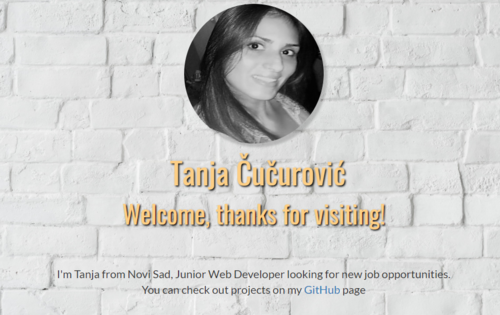
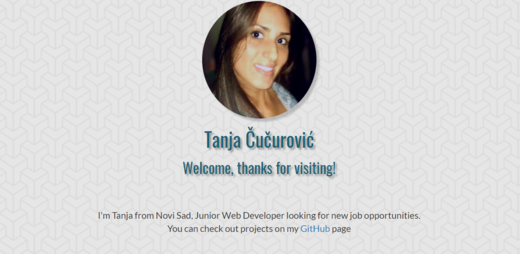
design change

diff --git a/style.css b/style.css
@@ -2,11 +2,19 @@ h1, h2, h3, h4, h5, h6 {
     font-family: 'Oswald', sans-serif;
     font-weight: 500;
     text-shadow: 4px 4px 5px rgba(150, 150, 150, 1);
+    color: #195F74;
+}
+/* Name */
+
+h1{
+    font-size: 42px; 
+    text-align: center; 
 }
 
-h2, h3 {
-    color: black;
-    text-shadow: 4px 4px 5px rgba(150, 150, 150, 1);
+/* Welcome message */
+h2{
+    text-align: center;
+    font-size: 32px;
 }
 
 body, p, ul, ol, table {
@@ -37,7 +45,7 @@ body, p, ul, ol, table {
     cursor: pointer; 
     color: black; 
     border-radius: 5px;
-    background-color:rgba(232, 190, 100, 0.57);
+    background-color:rgba(120, 163, 175, 0.57);
     -webkit-box-shadow:5px 5px 11px 0px rgba(50, 50, 50, 0.7);
     -moz-box-shadow:5px 5px 11px 0px rgba(50, 50, 50, 0.7);
     box-shadow:5px 5px 11px 0px rgba(50, 50, 50, 0.7);  
@@ -56,7 +64,7 @@ body, p, ul, ol, table {
 
 .meni-item:hover{
     box-shadow: 0 12px 16px 0 rgba(0,0,0,0.24),0 17px 50px 0 rgba(0,0,0,0.19);
-    background-color:rgba(253, 206, 132, 1);    
+    background-color:rgba(120, 163, 175, 0.57);    
 }
 .cvDownload {
     padding-top: 5px;
@@ -87,53 +95,27 @@ body, p, ul, ol, table {
 
 /* Page */
 .page{
-    background-color:#fafafa;
+    background-color:#f8f8f8;
     background-position: center;
 }
 .rowUp{
-    background-image: url(images/page-backgroundImg.jpg);
-    background-size: cover; 
+    background-image: url(images/hero-background.png);
+    background-repeat: repeat; 
 }
 
 /* Profile image */
-.profile-col-name {
-    padding: 0px;
-}
+
 .img-circle{
     margin-top: 80px;
     width: 250px;
     height: 250px;
+    object-fit: cover;
     -webkit-box-shadow:7px 7px 5px 0px rgba(50, 50, 50, 0.24);
     -moz-box-shadow:7px 7px 5px 0px rgba(50, 50, 50, 0.24);
     box-shadow: 7px 7px 5px 0px rgba(50, 50, 50, 0.24);
 	-moz-border-radius:190px;
 	-webkit-border-radius:190px;
 	border-radius:190px;
-}
-
-/* Name */
-.name{
-    height: 100px;
-    box-sizing:border-box;
-}
-.name h1{
-    color: #fdce84;
-    text-shadow: 2px 2px 4px #000000;
-    font-size: 55px;
-    padding-top: 20px;
-    padding-left: 15px;
-    text-align: center;
-    margin-top: 0px;
-    
-}
-
-/* Welcome message */
-.text h2{
-    color: #fdce84;
-    text-align: center;
-    font-size: 45px;
-    text-shadow: 2px 2px 4px #000000;
-    margin-top: 0px; 
 }
 .text p{
     font-size: 20px;
@@ -149,7 +131,7 @@ body, p, ul, ol, table {
     display: block;
     height: 115px; /*same height as header*/
     margin-top: -115px; /*same height as header*/
-    visibility: hidden;
+    
   }
 
 /* information */
@@ -199,8 +181,9 @@ ul.skills-bullets li {
   }
  ol.steps>li::before {
     content: counter(inst);
-    background: #fdce84;
-    color: black;
+    background: #914454;
+    color: #f8f8f8;
+    font-weight: 500;
     font-size: 1em;
     font-weight: 700;
     font-style: italic;
@@ -216,7 +199,7 @@ ul.skills-bullets li {
     width: 1.35em;
     position: absolute; 
     transition: all 0.2s ease-in-out;
-    text-shadow: 3px 3px 5px rgba(150, 150, 150, 1);
+    
 }
 @media (min-width: 33em) {
  ol.steps>li:before {
@@ -244,7 +227,7 @@ ul.skills-bullets li {
   
 .circle-bg {
     fill: none;
-    stroke: #7b7979;
+    stroke: #D6D2D0;
     stroke-width: 3.8;
   }
   
@@ -262,7 +245,7 @@ ul.skills-bullets li {
  }
   
 .circular-chart.orange .circle {
-    stroke: #fdce84;
+    stroke: #195F74;
   }
 
 .percentage {
@@ -352,7 +335,7 @@ ul.skills-bullets li {
     }
 .meni-item{
     width: 300px;
-    background-color: rgba(225, 178, 76, 0.59);
+    background-color: rgba(120, 163, 175, 0.57);
 }
 .cvDownload{
     padding-bottom: 10px;

diff --git a/index.html b/index.html
@@ -22,7 +22,6 @@
 <link rel="stylesheet" href="https://use.fontawesome.com/releases/v5.3.1/css/all.css" integrity="sha384-mzrmE5qonljUremFsqc01SB46JvROS7bZs3IO2EmfFsd15uHvIt+Y8vEf7N7fWAU" crossorigin="anonymous">
 
 <link rel="shortcut icon" type="image/png" href="images/favicon.png"/>
-
 <!-- Smooth scroll -->
 <script src="https://ajax.googleapis.com/ajax/libs/jquery/3.3.1/jquery.min.js"></script>
 <script>
@@ -94,7 +93,7 @@ $(document).ready(function(){
         <div id="top" class="container page">
           <div class="row rowUp">
             <div class="col-md-12 profile-col-img">
-              <img class="img-circle img-responsive center-block" src="images/profileImage.jpg"/>
+              <img class="img-circle img-responsive center-block" src="images/portret.jpg"/>
             </div>
             <div class="col-md-12 profile-col-name">
              <div class="name"><h1>Tanja Čučurović</h1></div>
@@ -210,12 +209,12 @@ $(document).ready(function(){
                         a 15.9155 15.9155 0 0 1 0 -31.831"
                         />
                         <path class="circle"
-                        stroke-dasharray="55, 100"
+                        stroke-dasharray="35, 100"
                         d="M18 2.0845
                             a 15.9155 15.9155 0 0 1 0 31.831
                             a 15.9155 15.9155 0 0 1 0 -31.831"
                         />
-                        <text x="18" y="20.35" class="percentage">55%</text>
+                        <text x="18" y="20.35" class="percentage">35%</text>
                     </svg>
                     <p>JAVA/MYSQL</p>
                 </div>

diff --git a/indexSrb.html b/indexSrb.html
@@ -88,7 +88,7 @@ $(document).ready(function(){
         <div id="top" class="container page">
           <div class="row rowUp">
             <div class="col-md-12 profile-col-img">
-              <img class="img-circle img-responsive center-block" src="images/profileImage.jpg"/>
+              <img class="img-circle img-responsive center-block" src="images/portret.jpg"/>
             </div>
             <div class="col-md-12 profile-col-name">
               <div class="name"><h1>Tanja Čučurović</h1></div>
@@ -208,12 +208,12 @@ $(document).ready(function(){
                         a 15.9155 15.9155 0 0 1 0 -31.831"
                         />
                         <path class="circle"
-                        stroke-dasharray="55, 100"
+                        stroke-dasharray="35, 100"
                         d="M18 2.0845
                             a 15.9155 15.9155 0 0 1 0 31.831
                             a 15.9155 15.9155 0 0 1 0 -31.831"
                         />
-                        <text x="18" y="20.35" class="percentage">55%</text>
+                        <text x="18" y="20.35" class="percentage">35%</text>
                     </svg>
                     <p>JAVA/MYSQL</p>
                 </div>
